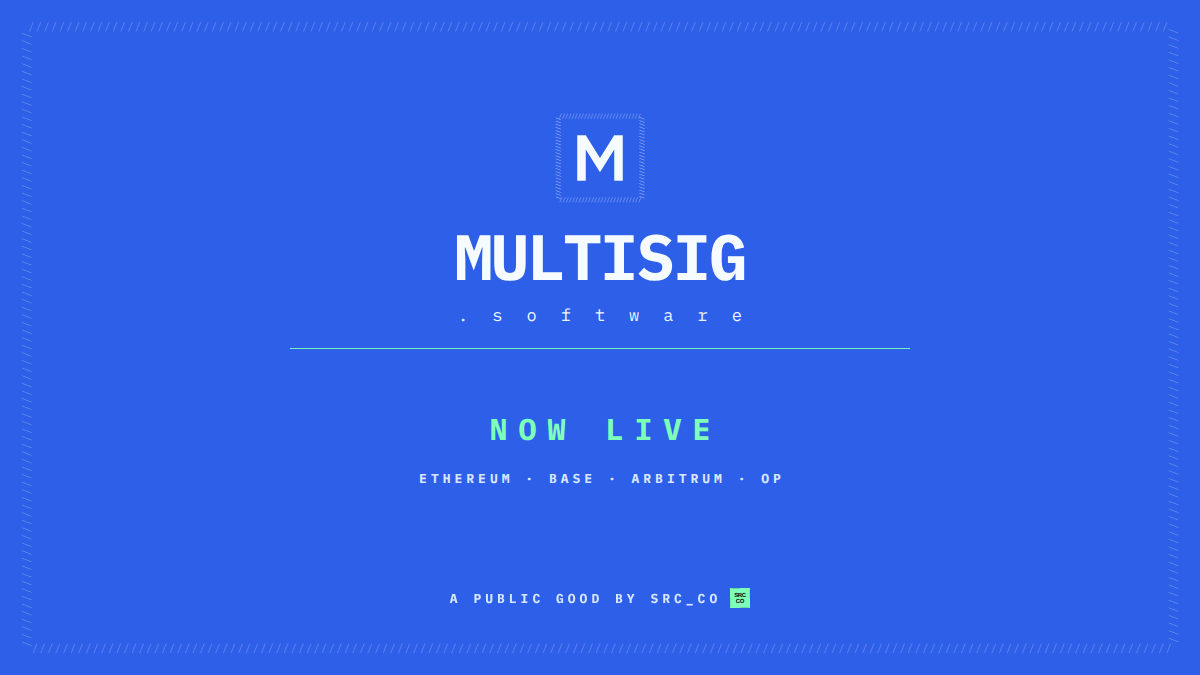
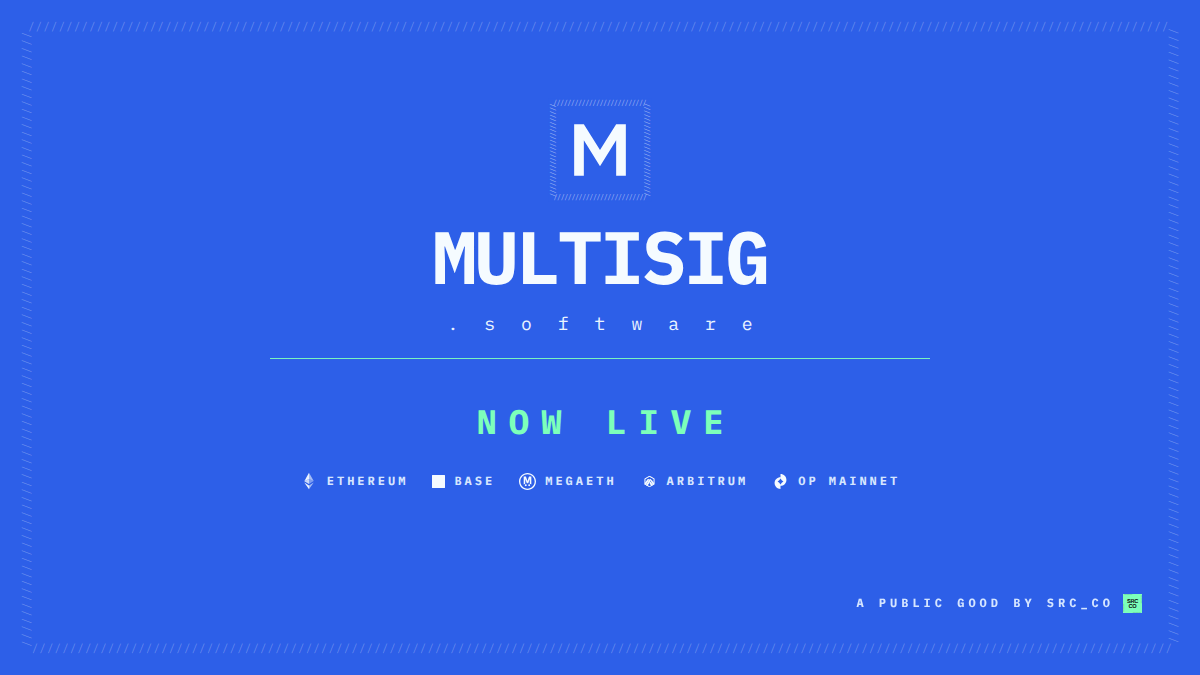
launch: retime the card to 9.6s and type the beats instead of fading them
The film was 12s with three beat lines that cross-faded, an eased delay sweep,
and five chain marks each sitting in its own white tile. Retimed and reworked.

9600ms divides exactly by the 40ms frame at 25fps, by the mark's 240ms crawl and
by its 2400ms breath, so every periodic motion closes on the loop point --
anything not a common multiple of all three jumps visibly when the GIF wraps.
END is set so the last block finishes fading on the final frame: the last frame
matches the first, but the one before it is still moving, so the wrap has no dead
beat and no two frames are identical.

The beats are typed rather than faded. A monospace cell's advance is uniform, so
the text is measured once after the font is real and clipped to whole characters
-- typing with no sub-pixel mush -- and the cursor is the first green on screen.
One accent word per line, which changes no cell's advance so the clip is
unaffected.

The delay sweep is linear, not eased. A delay elapses at a constant rate, and an
ease-out spends its final frames barely moving, which read as the bar stalling
just short of the node. 510px over exactly 30 frames is 17px per frame, whole
pixels every time, with both endpoints on the frame grid -- a fractional endpoint
re-antialiases the 2px tip every frame and those blends quantise to different
palette entries, so the head shimmered as it travelled. A 28px leading edge
overlaps consecutive frames by 11px so it reads as one moving edge instead of
[…]

diff --git a/launch/launch.html b/launch/launch.html
@@ -22,43 +22,55 @@ html,body{background:#0B1526;min-height:100vh;display:grid;place-items:center}
    nothing can drift off the optical centre line. */
 .el{position:absolute;left:0;right:0;text-align:center;opacity:0}
 
-#mark{top:112px;height:92px}
-#mark svg{width:92px;height:92px;display:inline-block;vertical-align:top}
+#mark{top:98px;height:104px}
+#mark svg{width:104px;height:104px;display:inline-block;vertical-align:top}
 
-#wordmark{top:224px;font-size:64px;font-weight:700;letter-spacing:-2px;line-height:1}
-#sub{top:304px;font-size:17px;font-weight:400;letter-spacing:24px;text-indent:24px;color:var(--m);opacity:0}
+#wordmark{top:220px;font-size:74px;font-weight:700;letter-spacing:-2.5px;line-height:1}
+#sub{top:312px;font-size:18px;font-weight:400;letter-spacing:26px;text-indent:26px;color:var(--m)}
 
 /* The hairline under the lockup. It draws itself open, then charges green for
    the final card — the same green the interface uses for a met threshold. */
-#rule{top:348px;height:1px}
+#rule{top:358px;height:1px}
 #rule i{display:block;height:1px;margin:0 auto;width:0;background:var(--ln)}
-#rulefill{top:348px;height:1px}
+#rulefill{top:358px;height:1px}
 #rulefill i{display:block;height:1px;margin:0 auto;width:0;background:var(--g);opacity:.9}
 
-/* Beat lines — the what. */
-#lines{top:398px}
-#lines div{font-size:19px;font-weight:700;letter-spacing:6px;text-indent:6px;line-height:2.35;color:var(--m);opacity:0}
+/* Beat lines — the what. Typed rather than faded: the advance width of a
+   monospace cell is uniform, so a clip stepped to whole characters reads as
+   typing with no sub-pixel mush, and the cursor is the first green on screen. */
+#lines{top:400px}
+#lines .bl{font-size:20px;font-weight:700;letter-spacing:6px;line-height:2.3;color:var(--m);opacity:0}
+.tw{position:relative;display:inline-block}
+.tw .tx{display:inline-block}
+/* One accent, on the operative word of each line. Nested colour doesn't change
+   any cell's advance, so the typed clip is unaffected. */
+.tw .tx b{font-weight:700;color:var(--g)}
+.tw i{position:absolute;bottom:5px;left:0;width:12px;height:2px;background:var(--g);opacity:0}
 
 /* The delay, drawn — the how. */
-#tl{top:404px}
+#tl{top:398px}
 #tl svg{display:inline-block}
-#cap{top:520px;font-size:13px;font-weight:700;letter-spacing:5px;text-indent:5px;color:var(--d)}
+#cap{top:516px;font-size:13px;font-weight:700;letter-spacing:5px;text-indent:5px;color:var(--d)}
 
 /* The call. */
-#live{top:410px;font-size:30px;font-weight:700;letter-spacing:11px;text-indent:11px;color:var(--g)}
-/* Chain row. Each mark sits in an identical light tile: Base's #0000FF square
-   and OP's red both fall under 2:1 against the card's blue, and tiling them all
-   the same way fixes the contrast and stops five brand palettes from fighting. */
-#chains{top:466px;font-size:12px;font-weight:700;letter-spacing:3px;color:var(--d)}
-.crow{display:inline-flex;align-items:center;gap:22px}
-.chip{display:inline-flex;align-items:center;gap:8px;white-space:nowrap}
-.chip i{width:21px;height:21px;flex:none;background:var(--a);display:inline-flex;align-items:center;justify-content:center}
-.chip i svg{width:15px;height:15px;display:block}
+#live{top:400px;font-size:34px;font-weight:700;letter-spacing:12px;text-indent:12px;color:var(--g)}
 
-/* The colophon, sized and worded exactly as it ships in the interface. */
-#colo{top:588px;font-size:13px;font-weight:700;letter-spacing:4px}
+/* Chain row. The marks are monochrome white rather than brand colour in a light
+   tile: on #2D5FE8 the real colours measure 1.35–2.23:1, so they needed a plate
+   to be legible at all, and five plates is more furniture than the card can
+   carry. White is 5.37:1 and stands alone. Sizes are optical, not equal — see
+   build.js — because a full-bleed square out-weighs a circle at the same box. */
+#chains{top:472px;font-size:12px;font-weight:700;letter-spacing:3px;color:var(--d);opacity:1}
+.crow{display:inline-flex;align-items:center;gap:24px}
+.chip{display:inline-flex;align-items:center;gap:9px;white-space:nowrap;opacity:0}
+.chip i{flex:none;display:inline-flex;align-items:center;justify-content:center}
+.chip i svg{width:var(--s,17px);height:var(--s,17px);display:block}
+
+/* The colophon sits bottom-right, exactly where it ships in the interface —
+   which also stops it stranding in the middle of an empty lower band. */
+#colo{top:594px;text-align:right;padding-right:58px;font-size:12px;font-weight:700;letter-spacing:4px}
 #colo span{display:inline-flex;align-items:center;gap:9px;color:var(--d)}
-#colo svg{width:20px;height:20px;display:block}
+#colo svg{width:19px;height:19px;display:block}
 
 /* Static slash frame — the interface's rails and rules, held still. Only the
    loading mark marches, which is how the dapp itself behaves. */
@@ -82,15 +94,13 @@ html,body{background:#0B1526;min-height:100vh;display:grid;place-items:center}
     </g>
   </svg>
 
-  <!-- The loading mark, exactly as the dapp draws it: slashed border marching
-       clockwise around a solid M. -->
+  <!-- The loading mark, as the dapp draws it: slashed border marching clockwise
+       around a solid M. Each edge path starts three units early, off the visible
+       corner, so the crawling pattern never runs off the end and leaves a gap. -->
   <div class="el" id="mark">
     <svg viewBox="0 0 64 64" aria-hidden="true">
       <rect width="64" height="64" fill="#2D5FE8"/>
       <defs>
-        <!-- Each edge starts three units early, off the visible corner, so the
-             crawling pattern below always covers the border instead of running
-             off the end of the path and leaving a gap. -->
         <path id="mt" d="M1,4 H60" fill="none"/><path id="mr" d="M60,1 V60" fill="none"/>
         <path id="mb" d="M63,60 H4" fill="none"/><path id="ml" d="M4,63 V4" fill="none"/>
       </defs>
@@ -109,29 +119,33 @@ html,body{background:#0B1526;min-height:100vh;display:grid;place-items:center}
   <div class="el" id="rule"><i></i></div>
   <div class="el" id="rulefill"><i></i></div>
 
-  <div class="el" id="lines">
-    <div>MULTISIG + TIMELOCK</div>
-    <div>ONE ADDRESS, EVERY CHAIN</div>
-    <div>CANCEL BEFORE IT LANDS</div>
+  <div class="el" id="lines" style="opacity:1">
+    <div class="bl"><span class="tw"><span class="tx">MULTISIG + <b>TIMELOCK</b></span><i></i></span></div>
+    <div class="bl"><span class="tw"><span class="tx"><b>ONE ADDRESS</b>, EVERY CHAIN</span><i></i></span></div>
+    <div class="bl"><span class="tw"><span class="tx"><b>CANCEL</b> BEFORE IT LANDS</span><i></i></span></div>
   </div>
 
   <div class="el" id="tl">
-    <svg width="620" height="96" viewBox="0 0 620 96" aria-hidden="true">
-      <line x1="60" y1="30" x2="560" y2="30" stroke="#FFFFFF2E" stroke-width="1"/>
-      <line id="sweep" x1="60" y1="30" x2="60" y2="30" stroke="#7DFFBA" stroke-width="2"/>
-      <rect id="n1" x="53" y="23" width="14" height="14" fill="#7DFFBA"/>
-      <rect id="n2" x="553" y="23" width="14" height="14" fill="none" stroke="#FFFFFF47" stroke-width="1"/>
+    <svg width="660" height="96" viewBox="0 0 660 96" aria-hidden="true">
+      <line x1="70" y1="30" x2="580" y2="30" stroke="#FFFFFF22" stroke-width="2" shape-rendering="crispEdges"/>
+      <line id="sweep" x1="70" y1="30" x2="70" y2="30" stroke="#7DFFBA" stroke-width="2" shape-rendering="crispEdges"/>
+      <!-- Leading edge. 28px long against a 17px step, so consecutive frames
+           overlap by 11px and it reads as one moving edge. A 2px tick here
+           travelled 8.5x its own width per frame and strobed. -->
+      <line id="head" x1="70" y1="30" x2="70" y2="30" stroke="#F5FBFF" stroke-width="2" shape-rendering="crispEdges" opacity="0"/>
+      <rect id="n1" x="63" y="23" width="14" height="14" fill="#7DFFBA"/>
+      <rect id="n2" x="573" y="23" width="14" height="14" fill="#7DFFBA" fill-opacity="0" stroke="#FFFFFF47" stroke-width="1"/>
       <g font-family="PlexM,monospace" font-size="12" font-weight="700" letter-spacing="3" fill="#D6E6FF">
-        <text id="tlab" x="310" y="14" text-anchor="middle" fill="#F5FBFF">DELAY</text>
-        <text x="60" y="62" text-anchor="middle">QUEUED</text>
-        <text id="tex" x="560" y="62" text-anchor="middle">EXECUTABLE</text>
+        <text x="325" y="14" text-anchor="middle" fill="#F5FBFF">DELAY</text>
+        <text x="70" y="62" text-anchor="middle">QUEUED</text>
+        <text id="tex" x="580" y="62" text-anchor="middle">EXECUTABLE</text>
       </g>
     </svg>
   </div>
   <div class="el" id="cap">TIME TO CATCH A MISTAKE</div>
 
   <div class="el" id="live">NOW LIVE</div>
-  <div class="el" id="chains">__CHAINROW__</div>
+  <div class="el" id="chains"><span class="crow"><span class="chip"><i style="--s:18px"><svg width="14" height="14" viewBox="0 0 32 32" xmlns="http://www.w3.org/2000/svg"><polygon fill="#F5FBFF" fill-opacity="0.95" points="7.62,18.83 16.01,30.5 16.01,24.1"/><polygon fill="#F5FBFF" fill-opacity="0.6" points="16.01,30.5 24.38,18.78 16.01,24.1"/><polygon fill="#F5FBFF" fill-opacity="0.95" points="16.01,1.5 7.62,16.23 16.01,12.3"/><polygon fill="#F5FBFF" fill-opacity="0.6" points="24.38,16.18 16.01,1.5 16.01,12.3"/><polygon fill="#F5FBFF" fill-opacity="0.4" points="16.01,21.5 24.38,16.18 16.01,12.3"/><polygon fill="#F5FBFF" fill-opacity="0.78" points="16.01,12.3 7.62,16.23 16.01,21.5"/></svg></i>ETHEREUM</span><span class="chip"><i style="--s:13px"><svg viewBox="0 0 249 249" xmlns="http://www.w3.org/2000/svg"><path d="M0 19.671C0 12.9332 0 9.56425 1.26956 6.97276C2.48511 4.49151 4.49151 2.48511 6.97276 1.26956C9.56425 0 12.9332 0 19.671 0H229.329C236.067 0 239.436 0 242.027 1.26956C244.508 2.48511 246.515 4.49151 247.73 6.97276C249 9.56425 249 12.9332 249 19.671V229.329C249 236.067 249 239.436 247.73 242.027C246.515 244.508 244.508 246.515 242.027 247.73C239.436 249 236.067 249 229.329 249H19.671C12.9332 249 9.56425 249 6.97276 247.73C4.49151 246.515 2.48511 244.508 1.26956 242.027C0 239.436 0 236.067 0 229.329V19.671Z" fill="#F5FBFF"/></svg></i>BASE</span><span class="chip"><i style="--s:17px"><svg viewBox="0 0 256 256" xmlns="http://www.w3.org/2000/svg"><circle cx="128" cy="128" r="128" fill="none"/><path d="M153.018 199.027C160.881 199.027 167.23 192.682 167.23 184.855C167.23 177.028 160.881 170.683 153.018 170.683C145.217 170.683 138.867 177.028 138.867 184.855C138.867 192.682 145.217 199.027 153.018 199.027Z" fill="#F5FBFF"/><path d="M102.073 199.448C109.935 199.448 116.225 193.103 116.225 185.276C116.225 177.45 109.935 171.105 102.073 171.105C94.2719 171.105 87.9219 177.45 87.9219 185.276C87.9219 193.103 94.2719 199.448 102.073 199.448Z" fill="#F5FBFF"/><path d="M71.0365 51.3927H104.799C111.152 68.5801 127.731 117.277 128.941 119.991C129.243 118.634 145.943 65.5649 150.662 51.6943H185.756V172.759C181.399 170.346 177.042 167.935 172.323 165.22C169.055 163.563 166.03 161.753 162.703 160.396C162.4 136.877 162.098 113.508 161.372 89.0842C156.652 103.105 140.376 152.557 139.045 153.913H117.323C117.323 153.913 96.2066 93.9085 95.178 91.1949C94.8757 114.262 94.5731 137.329 93.7866 161.15C80.8383 167.783 73.1544 171.553 70.7344 172.457V51.3927H71.0365Z" fill="#F5FBFF"/><path d="M128.03 20.3533C187.265 20.3533 235.67 68.5983 235.67 128C235.67 187.402 187.447 235.647 128.03 235.647C68.6136 235.647 20.3904 187.402 20.3904 128C20.3904 68.5983 68.6136 20.3533 128.03 20.3533ZM128.03 0C57.2991 0 0 57.2911 0 128C0 198.709 57.2991 256 128.03 256C198.701 256 256 198.709 256 128C256 57.2911 198.701 0 128.03 0Z" fill="#F5FBFF"/></svg></i>MEGAETH</span><span class="chip"><i style="--s:17px"><svg viewBox="0 0 32 32" xmlns="http://www.w3.org/2000/svg"><circle cx="16" cy="16" r="16" fill="none"/><path fill-rule="evenodd" clip-rule="evenodd" d="M24.6648 10.3409C24.5095 10.1923 17.6041 6.172 16.8067 5.7666C16.4554 5.58417 15.8067 5.53687 15.4352 5.66525C15.0027 5.80714 7.69192 10.0706 7.39463 10.3477C7.24598 10.4895 7.06355 10.726 6.98923 10.8747C6.86085 11.1382 6.8541 11.3206 6.83382 16.1923L6.82031 21.2327L7.75274 21.78C8.26624 22.0773 8.72571 22.3273 8.75949 22.3408C8.83381 22.3612 15.4689 11.7936 15.4689 11.6517C15.4689 11.5503 13.9689 11.5707 13.4352 11.6788C12.8811 11.8004 12.3946 12.0436 12.1176 12.3409C12.0027 12.4625 11.077 13.8544 10.0635 15.4355C9.05003 17.0166 8.19868 18.3341 8.1649 18.3679C8.13111 18.4085 8.10408 16.9422 8.10408 14.9355V11.4355L8.29327 11.2666C8.61759 10.9693 15.8 6.85444 15.9892 6.85444C16.1716 6.85444 16.273 6.90848 17.9352 7.86794C18.496 8.19226 19.996 9.05712 21.2797 9.78685C22.5635 10.5233 23.6784 11.199 23.7661 11.2868L23.9148 11.4558V18.7256L20.349 13.2505C20.1866 12.9855 20.0171 12.7225 19.9257 12.6005L19.9128 12.5807L19.9113 12.5816C19.8856 12.5487 19.8679 12.5301 19.8608 12.5301C19.8338 12.5368 19.6513 12.8341 18.8338 14.2125C18.7324 14.3814 18.5837 14.6382 18.5095 14.78L18.3675 15.0368L18.3688 15.039L18.3651 15.0413L18.4676 15.2101L18.5432 15.3408C18.5672 15.382 18.592 15.4204 18.6162 15.4547L18.8528 15.8438C18.8819 15.9079 18.9223 15.9804 18.9689 16.0503C19.077 16.2125 19.2189 16.4422 19.2865 16.5638C19.3035 16.5945 19.3219 16.6223 19.3404 16.6462L22.2631 21.4558L21.9148 21.6584C21.7167 21.7707 21.6219 21.8207 21.5619 21.8236L17.9063 16.1404L17.8135 15.9895L17.4824 16.5301L17.4575 16.5715L16.03 18.8918L16.0261 18.8947L18.8815 23.3831C18.5185 23.6677 16.106 25.3222 15.95 25.3222C15.7744 25.3222 12.6176 23.1517 12.6581 23.0773C12.6725 23.0485 13.6463 21.3965 14.8289 19.3902L14.8307 19.3871C15.8669 17.6291 17.0632 15.5996 17.9148 14.1517C18.9283 12.4355 19.3473 11.672 19.2797 11.6517C19.2324 11.6315 18.5568 11.6247 17.7865 11.6382L16.3811 11.6584L13.1378 17.003C11.9437 18.9751 10.8647 20.7534 10.2575 21.7541L10.2561 21.7565C9.9571 22.2492 9.77272 22.5531 9.74597 22.5976L9.59732 22.8408L12.1108 24.2868C13.496 25.084 14.8136 25.8341 15.05 25.9624C15.5433 26.226 16.1108 26.3139 16.5095 26.1787C16.773 26.0976 24.1986 21.8206 24.5703 21.5436C24.6851 21.4557 24.881 21.1923 24.9959 20.9557L25.1986 20.5368L25.1851 15.8408L25.1648 11.1449L25.0026 10.8274C24.9148 10.6517 24.7594 10.4287 24.6648 10.3409ZM23.909 18.8188L23.9148 18.8273V18.815L23.909 18.8188Z" fill="#F5FBFF"/><path d="M24.0516 18.918L19.8649 12.4966L18.2969 15.0132L22.3452 21.6942L24.1198 20.841L24.0516 18.918Z" fill="#F5FBFF" fill-opacity="0.55"/><path d="M22.0116 22.4215L17.8248 16L16.0234 18.8729L19.3839 24.2527L21.5326 23.3803L22.0116 22.4215Z" fill="#F5FBFF" fill-opacity="0.55"/><path fill-rule="evenodd" clip-rule="evenodd" d="M8.17569 11.494L16.0015 6.98539L23.8273 11.494V20.5058L16.0015 25.0144L10.2566 21.7046L9.49122 22.9541L15.7865 26.5809C15.9195 26.6576 16.0834 26.6576 16.2165 26.5809L25.0763 21.4766C25.2098 21.3997 25.2921 21.2574 25.2921 21.1034V10.8964C25.2921 10.7424 25.2098 10.6 25.0763 10.5231L16.2165 5.41884C16.0834 5.34216 15.9195 5.34216 15.7865 5.41884L6.92669 10.5231C6.7932 10.6 6.71094 10.7424 6.71094 10.8964V21.1034C6.71094 21.2574 6.7932 21.3997 6.92669 21.4766L8.69757 22.4969L9.48646 21.2609L8.17569 20.5058V11.494Z" fill="#F5FBFF" fill-opacity="0.75"/><path d="M19.4032 11.5938L16.3802 11.6368L9.48828 22.9593L11.9198 24.3671L19.4032 11.5938Z" fill="#F5FBFF"/><path d="M11.898 12.6265C12.5884 11.4972 14.5651 11.5019 15.4673 11.6454L8.6947 22.4957C8.46471 22.3633 7.89434 22.0353 7.45276 21.7821C6.86927 21.4477 6.77289 21.4388 6.71094 21.1292V20.5286C8.15235 18.3651 11.2078 13.7557 11.898 12.6265Z" fill="#F5FBFF"/></svg></i>ARBITRUM</span><span class="chip"><i style="--s:17px"><svg viewBox="0 0 1024 1024" xmlns="http://www.w3.org/2000/svg"><path fill="none" d="M0 0h1024v1024H0z"/><path fill="#F5FBFF" d="M512.337 60c196.772 0 356.337 159.564 356.337 356.336 0 196.774-159.565 356.34-356.337 356.34v191.296C315.563 963.972 156 804.406 156 607.635c0-196.774 159.563-356.337 356.337-356.337V60Zm-1.651 275.693c-38.71 77.719-96.924 135.931-174.643 174.641v3.303c77.719 38.709 135.933 96.921 174.643 174.64h3.302c38.707-77.719 96.922-135.931 174.641-174.64v-3.303c-77.719-38.71-135.934-96.922-174.641-174.641h-3.302Z"/></svg></i>OP MAINNET</span></span></div>
 
   <div class="el" id="colo"><span>A PUBLIC GOOD BY SRC_CO<svg viewBox="0 0 64 64" aria-hidden="true"><rect width="64" height="64" fill="#7DFFBA"/><defs><path id="sct" d="M4,4 H60" fill="none"/><path id="scr" d="M60,4 V60" fill="none"/><path id="scb" d="M60,60 H4" fill="none"/><path id="scl" d="M4,60 V4" fill="none"/></defs><g fill="#0A0A0A" fill-opacity="0.6" font-family="Helvetica,Arial,sans-serif" font-size="4" letter-spacing="-0.2"><text><textPath href="#sct">//////////////////////////////</textPath></text><text><textPath href="#scr">//////////////////////////////</textPath></text><text><textPath href="#scb">//////////////////////////////</textPath></text><text><textPath href="#scl">//////////////////////////////</textPath></text></g><text x="32" y="29" font-family="Helvetica,Arial,sans-serif" font-size="19" font-weight="bold" fill="#0A0A0A" text-anchor="middle" letter-spacing="-1">SRC</text><text x="32" y="48" font-family="Helvetica,Arial,sans-serif" font-size="19" font-weight="bold" fill="#0A0A0A" text-anchor="middle" letter-spacing="-1">CO</text></svg></span></div>
 </div>
@@ -139,88 +153,125 @@ html,body{background:#0B1526;min-height:100vh;display:grid;place-items:center}
 <script>
 // Every value on screen is a pure function of one clock, so a frame grabber and
 // a live browser produce byte-identical output and the loop can be seamless.
-const D = 12000;                                   // 12s, an exact multiple of
-const MARCH = 240;                                 // the mark's crawl cycle and
-const BREATH = 3000;                               // its breath — so the loop
-const ADV = 2.22;                                  // is seamless at both.
-
-// One glyph advance of the border slashes: 4.2px Plex Mono is 0.6em wide, less
-// the -0.3 tracking. Crawling by exactly one advance per cycle means the border
-// reads as marching while staying unbroken — the dapp sweeps 0→100% instead,
-// which is right for a spinner but leaves a gap in a still frame.
+//
+// 9600ms is divisible by the 40ms frame at 25fps (240 frames), by the mark's
+// 240ms crawl (40 cycles) and by its 2400ms breath (4 cycles) — every periodic
+// motion closes exactly on the loop point. Anything not a common multiple of
+// all three would visibly jump when the GIF wraps.
+const D = 9600;
+const MARCH = 240, ADV = 2.22;   // one glyph advance of the border slashes
+const BREATH = 2400;
 
 const $ = s => document.querySelector(s);
 const clamp01 = v => v < 0 ? 0 : v > 1 ? 1 : v;
 const seg = (t, a, b) => clamp01((t - a) / (b - a));
 const ease = p => 1 - Math.pow(1 - p, 3);          // the interface's ease-out
-const IN = 420, OUT = 380;
+const IN = 380, OUT = 340;
+// Chosen so END+OUT lands exactly on the final frame (9600 - 40ms): the last
+// frame is empty and matches the first, but the frame before it is still fading,
+// so no two frames are identical and the wrap has no dead beat.
+const END = D - 40 - OUT;
 
-// Opacity for a block that enters at `a` and leaves at `b`.
 const win = (t, a, b) => seg(t, a, a + IN) * (1 - seg(t, b, b + OUT));
+const mix = (c1, c2, k) =>
+  'rgb(' + c1.map((v, i) => Math.round(v + (c2[i] - v) * k)).join(',') + ')';
 
-// A block rises 10px as it fades in — the only motion any text makes.
-function place(el, t, a, b) {
-  const o = win(t, a, b);
-  el.style.opacity = o;
-  el.style.transform = `translateY(${((1 - ease(seg(t, a, a + IN))) * 10).toFixed(2)}px)`;
-  return o;
+// A block rises as it fades in — the only motion any text makes.
+function place(el, t, a, b, rise = 10) {
+  el.style.opacity = win(t, a, b);
+  // No transform at all when there's no rise — translateY(0) still promotes a
+  // compositing layer, which can resample hairlines off the pixel grid.
+  el.style.transform = rise ? `translateY(${((1 - ease(seg(t, a, a + IN))) * rise).toFixed(2)}px)` : '';
+}
+
+// ── typed beat lines ───────────────────────────────────────────────
+// Measured once, after the font is real: a monospace cell's advance is uniform,
+// so width/length gives an exact per-character step to clip to.
+const TYPE = 460;
+const beats = [...document.querySelectorAll('#lines .bl')].map((bl, i) => ({
+  bl, tx: bl.querySelector('.tx'), cur: bl.querySelector('i'),
+  len: bl.querySelector('.tx').textContent.length,
+  at: [1250, 1680, 2110][i], w: 0, adv: 0,
+}));
+const BEATS_OUT = 3700;
+
+function measure() {
+  for (const b of beats) { b.w = b.tx.getBoundingClientRect().width; b.adv = b.w / b.len; }
 }
 
 const marchPaths = document.querySelectorAll('.mp');
+const chips = [...document.querySelectorAll('#chains .chip')];
 
 function frame(t) {
   t = ((t % D) + D) % D;
-  const END = 11560;                               // everything clears here so
-                                                   // the last frame == the first
 
   // ── the lockup, present for the whole film ─────────────────────────
-  // Starts at zero, not at 100ms: at 25fps a 100ms lead-in is two frames that
-  // are pixel-identical to the first, which reads as a freeze at the loop point.
-  const mo = place($('#mark'), t, 0, END);
+  place($('#mark'), t, 0, END, 0);
   const grow = ease(seg(t, 0, IN));
   const breathe = 1 + 0.012 * Math.sin(2 * Math.PI * t / BREATH);
   $('#mark').style.transform = `scale(${((0.92 + 0.08 * grow) * breathe).toFixed(4)})`;
-  $('#mark').style.opacity = mo;
 
   // The march, at the loading overlay's speed (~18 units/s) but seamless.
   const crawl = (t % MARCH) / MARCH * ADV;
   marchPaths.forEach(p => p.setAttribute('startOffset', crawl.toFixed(3)));
 
-  place($('#wordmark'), t, 560, END);
-  $('#wordmark').style.letterSpacing = (-2 + 10 * (1 - ease(seg(t, 560, 560 + 560)))).toFixed(2) + 'px';
-  place($('#sub'), t, 940, END);
+  place($('#wordmark'), t, 300, END);
+  $('#wordmark').style.letterSpacing = (-2.5 + 11 * (1 - ease(seg(t, 300, 300 + 520)))).toFixed(2) + 'px';
+  place($('#sub'), t, 620, END);
 
   // ── the hairline, drawing open then charging green ─────────────────
-  $('#rule').style.opacity = win(t, 1400, END);
-  $('#rule').querySelector('i').style.width = (620 * ease(seg(t, 1400, 2100))).toFixed(1) + 'px';
-  $('#rulefill').style.opacity = win(t, 8900, END);
-  $('#rulefill').querySelector('i').style.width = (620 * ease(seg(t, 8900, 9700))).toFixed(1) + 'px';
+  $('#rule').style.opacity = win(t, 900, END);
+  $('#rule').firstChild.style.width = (660 * ease(seg(t, 900, 1500))).toFixed(1) + 'px';
+  $('#rulefill').style.opacity = win(t, 6950, END);
+  $('#rulefill').firstChild.style.width = (660 * ease(seg(t, 6950, 7700))).toFixed(1) + 'px';
 
-  // ── beat lines, one at a time ─────────────────────────────────────
-  const beats = $('#lines').children;
-  const OUT_BEATS = 5000;
-  $('#lines').style.opacity = 1;
-  [1900, 2320, 2740].forEach((a, i) => {
-    beats[i].style.opacity = win(t, a, OUT_BEATS);
-    beats[i].style.transform = `translateY(${((1 - ease(seg(t, a, a + IN))) * 8).toFixed(2)}px)`;
+  // ── beats, typed one character at a time ──────────────────────────
+  for (const b of beats) {
+    const p = seg(t, b.at, b.at + TYPE);
+    const n = Math.floor(p * b.len + 1e-9);
+    const vis = n * b.adv;
+    b.bl.style.opacity = (t >= b.at ? 1 : 0) * (1 - seg(t, BEATS_OUT, BEATS_OUT + OUT));
+    b.tx.style.clipPath = `inset(0 ${Math.max(0, b.w - vis).toFixed(2)}px 0 0)`;
+    b.cur.style.left = vis.toFixed(2) + 'px';
+    b.cur.style.opacity = (p > 0 && p < 1) ? 1 : 0;
+  }
+
+  // ── the delay, painted ────────────────────────────────────────────
+  place($('#tl'), t, 3880, 5900, 0);   // no rise: a fractional translateY
+                                       // would drag the hairlines off the
+                                       // pixel grid while the paint runs
+  const ARRIVE = 5480;   // both ends land on the 40ms frame grid
+  // Linear, not eased: a delay elapses at a constant rate, and an ease-out spends
+  // its last frames barely moving — which reads as the bar stalling just short of
+  // the node. Constant speed also means equal pixel steps per frame, the
+  // smoothest thing a fixed-delay GIF can show.
+  const s = seg(t, 4280, ARRIVE);
+  // 510px across exactly 30 frames (4280→5480ms at 25fps) is 17px per frame,
+  // whole pixels every time. Both ends sit on the frame grid on purpose: start
+  // the paint at 4300 and the first step is a half-frame stub of 9px. A fractional endpoint would re-antialias the 2px tip on
+  // every frame, and those blends land on different palette entries once
+  // quantised — the head visibly shimmers as it travels.
+  const tip = Math.round(70 + 510 * s);
+  $('#sweep').setAttribute('x2', tip);
+  const head = $('#head');
+  head.setAttribute('x1', Math.max(70, tip - 28));
+  head.setAttribute('x2', tip);
+  head.setAttribute('opacity', (s <= 0 ? 0 : 1 - seg(t, ARRIVE, ARRIVE + 160)).toFixed(3));
+  // Arrival resolves over four frames instead of switching in one: the node
+  // fills, and the label crosses from quiet blue to the accent.
+  const arrive = ease(seg(t, ARRIVE, ARRIVE + 160));
+  $('#n2').setAttribute('fill-opacity', arrive.toFixed(3));
+  $('#tex').setAttribute('fill', mix([214, 230, 255], [125, 255, 186], arrive));
+  place($('#cap'), t, 4520, 5900);
+
+  // ── the call, the chains, the credit ──────────────────────────────
+  place($('#live'), t, 6250, END);
+  chips.forEach((c, i) => {                        // staggered, left to right
+    const a = 6550 + i * 70;
+    c.style.opacity = win(t, a, END);
+    c.style.transform = `translateY(${((1 - ease(seg(t, a, a + IN))) * 6).toFixed(2)}px)`;
   });
-
-  // ── the delay, drawn ──────────────────────────────────────────────
-  place($('#tl'), t, 5400, 8000);
-  const s = ease(seg(t, 5900, 7500));
-  $('#sweep').setAttribute('x2', (60 + 500 * s).toFixed(1));
-  const done = s > 0.999;
-  $('#n2').setAttribute('fill', done ? '#7DFFBA' : 'none');
-  $('#n2').setAttribute('stroke', done ? '#7DFFBA' : '#FFFFFF47');
-  $('#tex').setAttribute('fill', done ? '#7DFFBA' : '#D6E6FF');
-  place($('#cap'), t, 6100, 8000);
-
-  // ── the call, and the credit ──────────────────────────────────────
-  place($('#live'), t, 8400, END);
-  place($('#chains'), t, 8860, END);
-  place($('#colo'), t, 9500, END);                 // every block clears by
-                                                   // END+OUT, so the last frame
-                                                   // is the first frame exactly
+  place($('#colo'), t, 7250, END, 6);
 }
 
 // Live playback for viewing; __seek for deterministic capture.
@@ -228,7 +279,7 @@ let raf = null, t0 = null;
 function loop(now) { if (t0 === null) t0 = now; frame(now - t0); raf = requestAnimationFrame(loop); }
 window.__seek = t => { if (raf) { cancelAnimationFrame(raf); raf = null; } frame(t); };
 window.__DURATION = D;
-document.fonts.ready.then(() => { frame(0); raf = requestAnimationFrame(loop); });
+document.fonts.ready.then(() => { measure(); frame(0); raf = requestAnimationFrame(loop); });
 </script>
 </body>
 </html>
